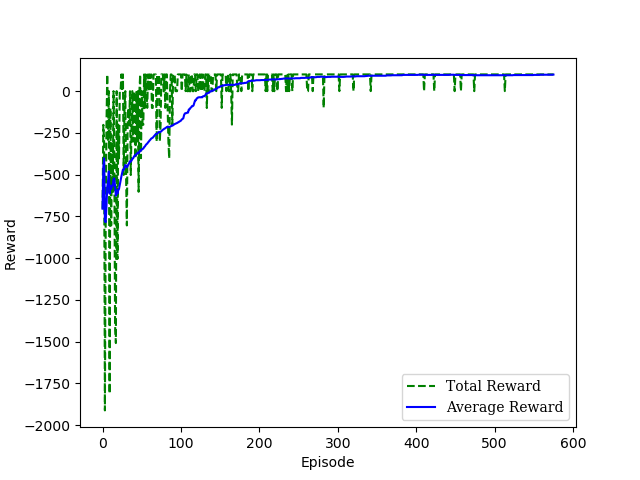
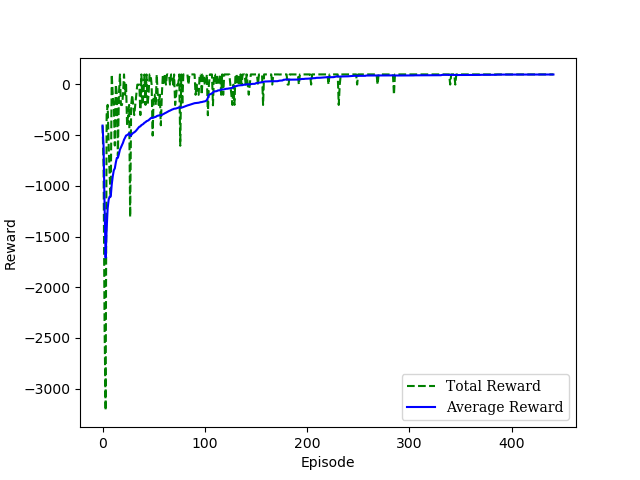
got bad results, but results nonetheless, from DQN. also updated envs from tuple to array

diff --git a/gym-forrest/DQN_agent_1.py b/gym-forrest/DQN_agent_1.py
@@ -1,0 +1,174 @@
+"""
+DQN_agent_1.py
+
+Kelly Harnish
+27 April 2020
+
+This uses a DQN learning algorithm to train an agent to find the shortest path from the starting position to the
+target position while avoiding obstacles.
+
+Based on code authored by Siwei Xu,
+https://towardsdatascience.com/deep-reinforcement-learning-build-a-deep-q-network-dqn-to-play-cartpole-with-tensorflow-2-and-gym-8e105744b998
+Accessed 7 Jan 2020
+"""
+
+import numpy as np
+import tensorflow as tf
+import gym
+import gym_forrest
+import os
+# import datetime
+# from gym import wrappers
+import matplotlib.pyplot as plt
+
+
+class MyModel(tf.keras.Model):
+    def __init__(self, num_states, hidden_units, num_actions):
+        super(MyModel, self).__init__()
+        self.input_layer = tf.keras.layers.InputLayer(input_shape=(num_states,))
+        self.hidden_layers = []
+        for i in hidden_units:
+            self.hidden_layers.append(tf.keras.layers.Dense(
+                i, activation='tanh', kernel_initializer='RandomNormal'))
+        self.output_layer = tf.keras.layers.Dense(
+            num_actions, activation='linear', kernel_initializer='RandomNormal')
+
+    @tf.function
+    def call(self, inputs):
+        z = self.input_layer(inputs)
+        for layer in self.hidden_layers:
+            z = layer(z)
+        output = self.output_layer(z)
+        return output
+
+
+class DQN:
+    def __init__(self, num_states, num_actions, hidden_units, gamma, max_experiences, min_experiences, batch_size, lr):
+        self.num_actions = num_actions
+        self.batch_size = batch_size
+        self.optimizer = tf.optimizers.Adam(lr)
+        self.gamma = gamma
+        self.model = MyModel(num_states, hidden_units, num_actions)
+        self.experience = {'s': [], 'a': [], 'r': [], 's2': [], 'done': []}
+        self.max_experiences = max_experiences
+        self.min_experiences = min_experiences
+
+    def predict(self, inputs):
+        return self.model(np.atleast_2d(inputs.astype('float32')))
+
+    def train(self, TargetNet):
+        if len(self.experience['s']) < self.min_experiences:
+            return 0
+        ids = np.random.randint(low=0, high=len(self.experience['s']), size=self.batch_size)
+        states = np.asarray([self.experience['s'][i] for i in ids])
+        actions = np.asarray([self.experience['a'][i] for i in ids])
+        rewards = np.asarray([self.experience['r'][i] for i in ids])
+        states_next = np.asarray([self.experience['s2'][i] for i in ids])
+        dones = np.asarray([self.experience['done'][i] for i in ids])
+        value_next = np.max(TargetNet.predict(states_next), axis=1)
+        actual_values = np.where(dones, rewards, rewards + self.gamma * value_next)
+
+        with tf.GradientTape() as tape:
+            selected_action_values = tf.math.reduce_sum(
+                self.predict(states) * tf.one_hot(actions, self.num_actions), axis=1)
+            loss = tf.math.reduce_mean(tf.square(actual_values - selected_action_values))
+        variables = self.model.trainable_variables
+        gradients = tape.gradient(loss, variables)
+        self.optimizer.apply_gradients(zip(gradients, variables))
+        return loss
+
+    def get_action(self, states, epsilon):
+        if np.random.random() < epsilon:
+            return np.random.choice(self.num_actions)
+        else:
+            return np.argmax(self.predict(np.atleast_2d(states))[0])
+
+    def add_experience(self, exp):
+        if len(self.experience['s']) >= self.max_experiences:
+            for key in self.experience.keys():
+                self.experience[key].pop(0)
+        for key, value in exp.items():
+            self.experience[key].append(value)
+
+    def copy_weights(self, TrainNet):
+        variables1 = self.model.trainable_variables
+        variables2 = TrainNet.model.trainable_variables
+        for v1, v2 in zip(variables1, variables2):
+            v1.assign(v2.numpy())
+
+
+def main():
+    env = gym.make('Forrest-v0')
+    gamma = 0.99
+    copy_step = 25
+    num_states, num_actions = env.get_size()
+    hidden_units = [200, 200]
+    max_experiences = 10000
+    min_experiences = 100
+    batch_size = 32
+    lr = 1e-2
+
+    TrainNet = DQN(num_states, num_actions, hidden_units, gamma, max_experiences, min_experiences, batch_size, lr)
+    TargetNet = DQN(num_states, num_actions, hidden_units, gamma, max_experiences, min_experiences, batch_size, lr)
+    N = 1000  # max number of episodes
+    epsilon = 0.99
+    decay = 0.9999
+    min_epsilon = 0.1
+    reward_total = []
+    reward_average = []
+    for n in range(N):
+        rewards = 0
+        iter = 0
+        done = False
+        observations = env.reset()  # initial state
+        pathList = [np.asarray(observations)]  # initialize list for rendering path
+        epsilon = max(min_epsilon, epsilon * decay)
+        losses = list()
+
+        while not done:
+            action = TrainNet.get_action(observations, epsilon)
+            prev_observations = observations
+            observations, reward, done = env.step(action)
+            pathList.append(observations)
+            rewards += reward
+            if done:
+                reward = -200
+                env.reset()
+            exp = {'s': prev_observations, 'a': action, 'r': reward, 's2': observations, 'done': done}
+            TrainNet.add_experience(exp)
+            loss = TrainNet.train(TargetNet)
+            if isinstance(loss, int):
+                losses.append(loss)
+            else:
+                losses.append(loss.numpy())
+            iter += 1
+            if iter % copy_step == 0:
+                TargetNet.copy_weights(TrainNet)
+
+        losses = np.mean(losses)
+        reward_total.append(rewards)
+        reward_average.append(np.mean(reward_total[max(0, n - 100):(n + 1)]))
+
+        if n % 100 == 0:
+            print("Episode:", n, "\t\tEpisode reward:", '%.3f' % reward_total[n], "\tEpsilon:", '%.6f' % epsilon,
+                  "\tAvg reward (last 100):", '%.6f' % reward_average[n], "Episode loss: ", losses)
+        if reward_average[n] > -500:
+            break
+    print("avg reward for last 100 episodes:", reward_average[n])
+    # env.close()
+
+    # Plot reward over episodes
+    plt.plot(reward_total, '--g', label='Total Reward')
+    plt.plot(reward_average, 'b', label='Average Reward')
+    plt.xlabel('Episode')
+    plt.ylabel('Reward')
+    plt.show()
+
+    # Render optimal path
+    path = np.asarray(pathList)
+    env.render(path, 'DQN_agent_2D.mp4')
+
+
+# Driver
+if __name__ == '__main__':
+    main()

diff --git a/gym-forrest/gym_forrest/envs/forrest_env.py b/gym-forrest/gym_forrest/envs/forrest_env.py
@@ -29,22 +29,20 @@ from matplotlib.animation import FuncAnimation
 
 grid_rows = 5
 grid_cols = 3
-initialState = (0, 0)
-winState = (4, 2)
+initialState = np.array([0, 0])
+winState = np.array([4, 2])
 obstacles = np.array([[0, 2], [1, 2], [3, 1]])
 
 
 class ForrestEnv(gym.Env):
-    # metadata = {'render.modes': ['human', 'rgb_array'], 'video.frames_per_second': 50}
 
     def __init__(self):
         self.stateSize = (grid_rows, grid_cols)
         self.state = initialState  # (rows, columns) start in upper left corner
-        # self.actionSize = 4  # up, right, down, left
-        self.actionSize = (4,)  # up, right, down, left
+        self.actionSize = 4
 
     def get_size(self):
-        return grid_rows*grid_cols, 4
+        return grid_rows * grid_cols, 4
 
     def allowed_actions(self):
         # Generate list of actions allowed depending on location
@@ -60,7 +58,6 @@ class ForrestEnv(gym.Env):
             actions_allowed.append(1)
         actions_allowed = np.array(actions_allowed, dtype=int)
         return actions_allowed
-
 
     def step(self, action):
         # Given an action, verify that it is legal then calculate new position. Also calculate reward for that action
@@ -90,7 +87,7 @@ class ForrestEnv(gym.Env):
         self.state = (new_row, new_col)
         reward = self.give_reward()
 
-        if self.state == winState:
+        if (self.state[0] == winState[0]) & (self.state[1] == winState[1]):
             is_done = True
         else:
             is_done = False
@@ -103,7 +100,8 @@ class ForrestEnv(gym.Env):
         for i in range(len(obstacles)):
             if [self.state[0], self.state[1]] == [obstacles[i, 0], obstacles[i, 1]]:
                 award -= 100  # large punishment if in obstacle space
-        if self.state == winState:
+        # if self.state == winState:
+        if (self.state[0] == winState[0]) & (self.state[1] == winState[1]):
             award += 100  # large reward if target reached
         return award
 

diff --git a/gym-forrest/Q_agent.py b/gym-forrest/Q_agent.py
@@ -26,12 +26,12 @@ class Agent:
         self.state_dim = env.stateSize
         self.action_dim = env.actionSize
         # Agent learning parameters
-        self.epsilon = 1.0  # initial exploration probability
-        self.epsilon_decay = 0.99  # epsilon decay after each episode
-        self.beta = 0.99  # learning rate
-        self.gamma = 0.99  # reward discount factor
+        self.epsilon = 1.0          # initial exploration probability
+        self.epsilon_decay = 0.99   # epsilon decay after each episode
+        self.beta = 0.99            # learning rate
+        self.gamma = 0.99           # reward discount factor
         # Initialize Q[[s],a] table
-        self.Q = np.zeros(self.state_dim + self.action_dim, dtype=float)
+        self.Q = np.zeros((self.state_dim[0], self.state_dim[1], self.action_dim), dtype=float)
 
     def get_action(self, env):
         # Epsilon-greedy agent policy
@@ -43,7 +43,7 @@ class Agent:
             # exploit on allowed actions
             state = env.state
             actions_allowed = env.allowed_actions()
-            if self.action_dim == (6,):
+            if self.action_dim == 6:
                 Q_s = self.Q[state[0], state[1], state[2], actions_allowed]  # for 3D environment
             else:
                 Q_s = self.Q[state[0], state[1], actions_allowed]  # for 2D environment
@@ -67,7 +67,7 @@ class Agent:
     def display_greedy_policy(self):
         # greedy policy = argmax[a'] Q[s,a']
 
-        if self.action_dim == (6,):
+        if self.action_dim == 6:
             greedy_policy = np.zeros((self.state_dim[0], self.state_dim[1], self.state_dim[2]), dtype=int)
             for i in range(self.state_dim[0]):
                 for j in range(self.state_dim[1]):

diff --git a/gym-forrest/gym_forrest/envs/forrest_env3d.py b/gym-forrest/gym_forrest/envs/forrest_env3d.py
@@ -31,8 +31,8 @@ import mpl_toolkits.mplot3d.axes3d as p3
 grid_rows = 5
 grid_cols = 5
 grid_height = 5
-initialState = (0, 0, 0)
-winState = (4, 4, 3)
+initialState = np.array([0, 0, 0])
+winState = np.array([4, 4, 3])
 
 raw_map = np.loadtxt("map.csv", delimiter=",")
 obstacles = np.zeros((1, 3))
@@ -48,8 +48,8 @@ class ForrestEnv3d(gym.Env):
 
     def __init__(self):
         self.stateSize = (grid_rows, grid_cols, grid_height)
-        self.state = initialState  # (columns, rows, height) start in upper left corner
-        self.actionSize = (6,)
+        self.state = initialState  # columns, rows, height
+        self.actionSize = 6
 
     def allowed_actions(self):
         # Generate list of actions allowed depending on location
@@ -106,7 +106,7 @@ class ForrestEnv3d(gym.Env):
         self.state = (new_col, new_row, new_hei)
         reward = self.give_reward()
 
-        if self.state == winState:
+        if (self.state[0] == winState[0]) & (self.state[1] == winState[1]) & (self.state[2] == winState[2]):
             is_done = True
         else:
             is_done = False
@@ -119,7 +119,7 @@ class ForrestEnv3d(gym.Env):
         for ii in range(len(obstacles)):
             if [self.state[0], self.state[1], self.state[2]] == [obstacles[ii, 0], obstacles[ii, 1], obstacles[ii, 2]]:
                 award -= 100  # large punishment if in obstacle space
-        if self.state == winState:
+        if (self.state[0] == winState[0]) & (self.state[1] == winState[1]) & (self.state[2] == winState[2]):
             award += 100  # large reward if target reached
         return award
 

diff --git a/gym-forrest/random_agent.py b/gym-forrest/random_agent.py
@@ -15,7 +15,7 @@ state = env.reset()  # starting state
 pathList = [np.asarray(state)]  # initialize list for rendering path
 
 while True:
-    if env.actionSize == (6,):
+    if env.actionSize == 6:
         action = np.random.randint(low=0, high=6, size=1)  # choose random action for 3D environment
     else:
         action = np.random.randint(low=0, high=4, size=1)  # choose random action for 2D environment
@@ -24,5 +24,5 @@ while True:
     if done:
         break
 path = np.asarray(pathList)
-env.render(path)
+env.render(path, 'Random_Agent_3D.mp4')
 env.close()
